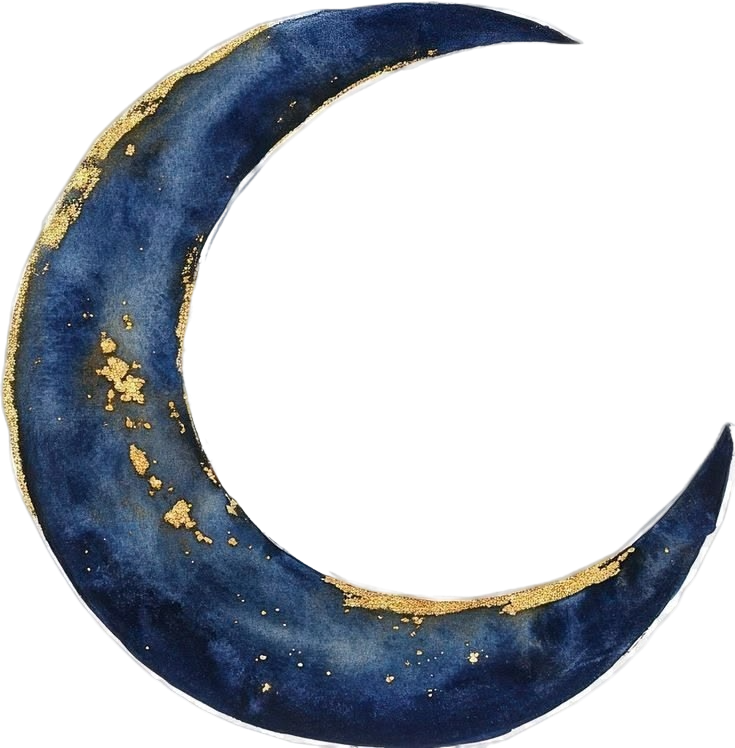
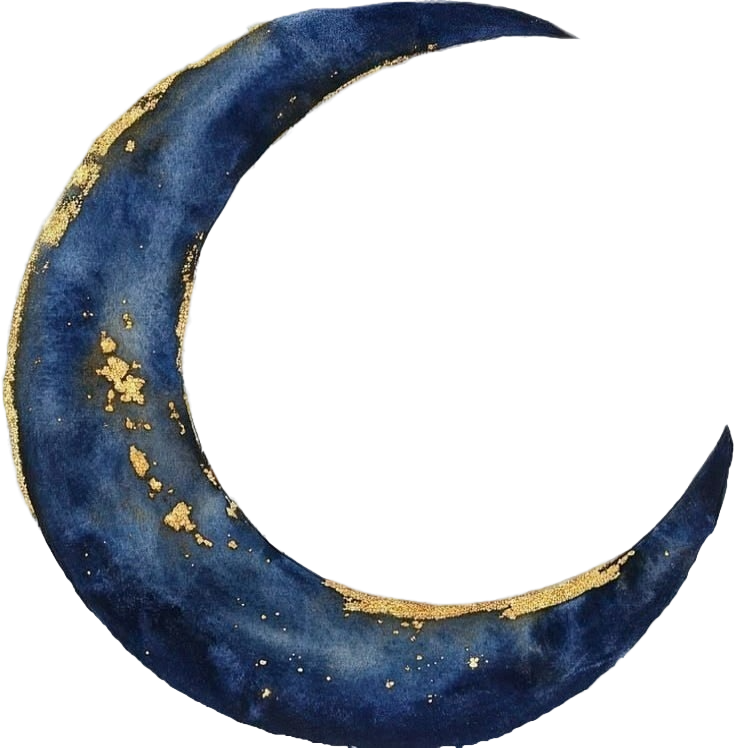
Пока поломалось окно результатов, но покопалась в бэке с паролями

diff --git a/internal/server/service.go b/internal/server/service.go
@@ -295,3 +295,37 @@ func (s *Service) CreateUser(name, password, birth, email string) (models.User, 
 
 	return user, nil
 }
+
+// Проверка совпадающих паролей но несовпадаюющих имэйлов :3
+func (s *Service) CheckPasswordMatch(name, password, email string) (map[string]interface{}, error) {
+	var foundUser struct {
+		ID    int
+		Name  string
+		Email string
+	}
+
+	// Ищем пользователя с таким же паролем, НО с другим email
+	query := `
+		SELECT id, username, email 
+		FROM users 
+		WHERE password_hash = ? 
+		AND email != ?
+		LIMIT 1
+	`
+
+	err := s.db.QueryRow(query, password, name, email).Scan(&foundUser.ID, &foundUser.Name, &foundUser.Email)
+	if err != nil {
+		if errors.Is(err, sql.ErrNoRows) {
+			return map[string]interface{}{
+				"found": false,
+			}, nil
+		}
+		return nil, err
+	}
+
+	return map[string]interface{}{
+		"found":          true,
+		"suggested_name":  foundUser.Name,
+		"suggested_email": foundUser.Email,
+	}, nil
+}

diff --git a/internal/server/handler.go b/internal/server/handler.go
@@ -99,3 +99,25 @@ func (h *Handler) Register(c *gin.Context) {
 
 	c.JSON(200, user)
 }
+
+// Проверочка паролей
+func (h *Handler) CheckPasswordMatch(c *gin.Context) {
+	var req struct {
+		Name     string `json:"name"`
+		Password string `json:"password"`
+		Email    string `json:"email"`
+	}
+
+	if err := c.BindJSON(&req); err != nil {
+		c.JSON(400, gin.H{"error": "invalid request"})
+		return
+	}
+
+	result, err := h.service.CheckPasswordMatch(req.Name, req.Password, req.Email)
+	if err != nil {
+		c.JSON(500, gin.H{"error": err.Error()})
+		return
+	}
+
+	c.JSON(200, result)
+}

diff --git a/cmd/main.go b/cmd/main.go
@@ -215,6 +215,7 @@ func main() {
 	router.GET("/tests/:id", handler.GetTestByID)
 	router.POST("/tests/:id/submit", handler.SubmitTest)
 	router.POST("/register", handler.Register)
+	router.POST("/check-password-match", handler.CheckPasswordMatch)
 
 	// запуск
 	log.Println("Сервер запущен на http://localhost:8080")